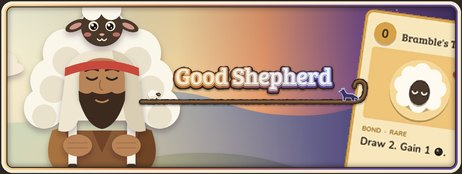
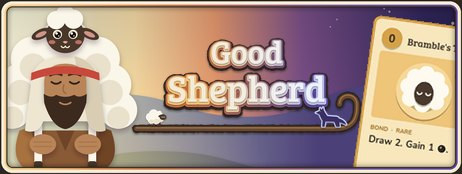
Small capsule: the name stacked and larger, both heads whole
Tested at 231 px and 120 px wide, where the one-line name was too thin to read
and the lamb's face was cut off.

Claude-Session: https://claude.ai/code/session_01VpcujLBvCFhyXTsRkCLDUJ

diff --git a/tools/capsule_lab.py b/tools/capsule_lab.py
@@ -64,8 +64,10 @@ CONCEPTS = {
                  "cards": [("staff", 0.585, 0.95, 0.60, -13), ("rod", 0.895, 0.95, 0.60, 13), ("bond", 0.74, 0.88, 0.64, 0)]},
         "package": {"crop": (880, 740, 880), "logo": (0.36, 0.08, 0.36, 0.84), "which": "stack",
                     "cards": [("staff", 0.775, 0.80, 0.72, -12), ("rod", 0.925, 0.80, 0.72, 12), ("bond", 0.85, 0.72, 0.78, 0)]},
-        "small": {"crop": (1090, 735, 700), "logo": (0.30, 0.08, 0.50, 0.84), "which": "line",
-                  "cards": [("bond", 0.905, 0.62, 1.05, 8)]},
+        # the small capsule is seen at 231 px and smaller: the name is stacked and as large
+        # as the height allows, his head and the lamb's are whole, and one card says "cards"
+        "small": {"crop": (1215, 690, 760), "logo": (0.285, 0.04, 0.50, 0.92), "which": "stack",
+                  "cards": [("bond", 0.915, 0.62, 0.98, 8)]},
         "vertical": {"crop": (790, 330, 1700), "logo": (0.08, 0.035, 0.84, 0.22), "which": "stack",
                      "cards": [("staff", 0.27, 0.93, 0.30, -14), ("rod", 0.73, 0.93, 0.30, 14), ("bond", 0.5, 0.90, 0.33, 0)]},
         "library": {"crop": (930, 330, 1700), "logo": (0.06, 0.04, 0.88, 0.21), "which": "stack",
